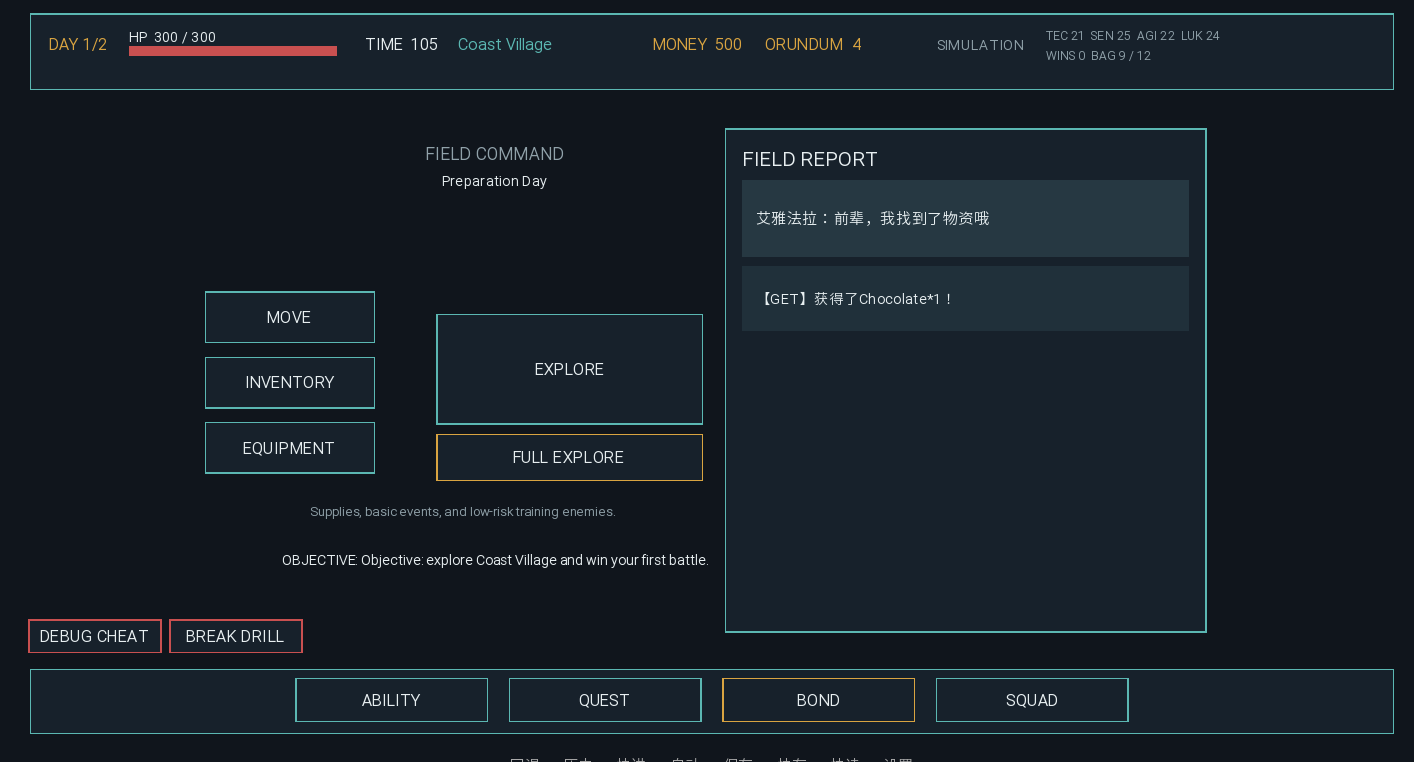
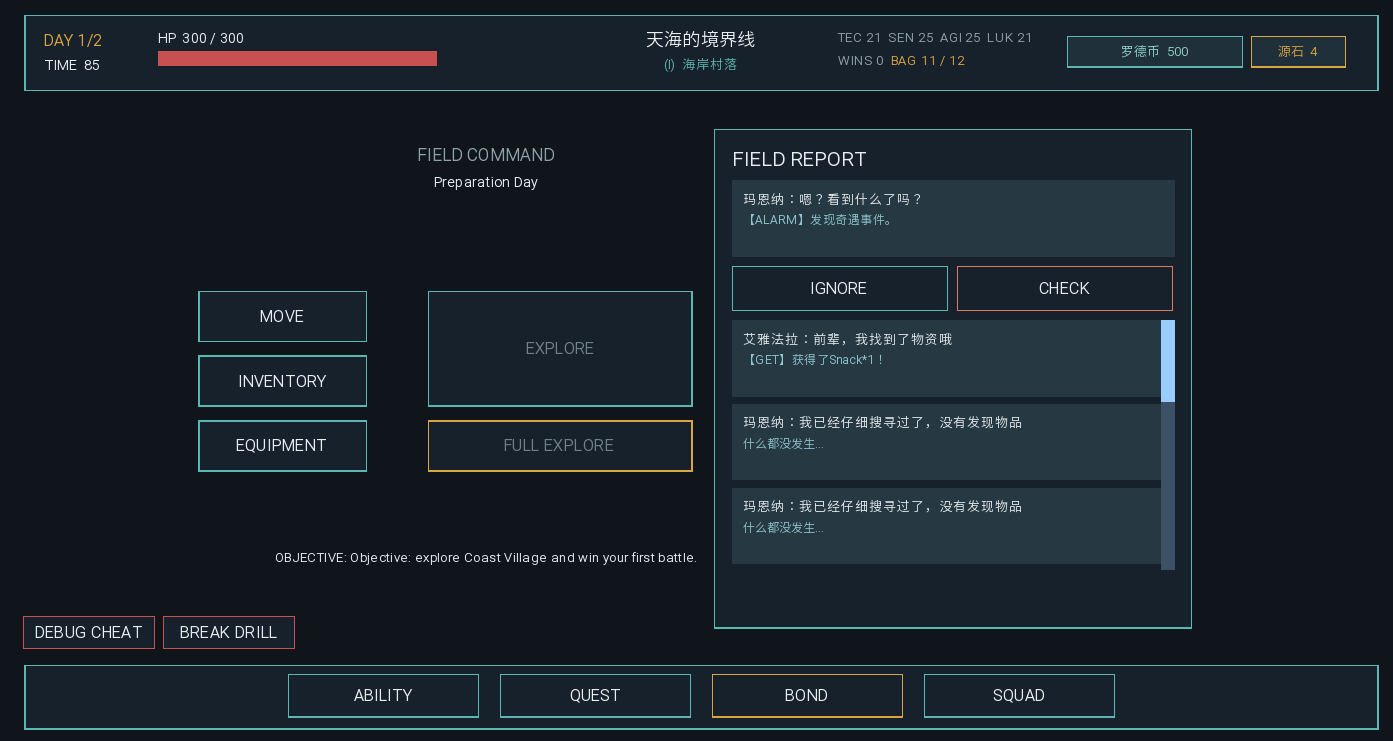
Update menu artwork and add image viewer

diff --git a/assets/site.css b/assets/site.css
@@ -36,10 +36,12 @@ img{max-width:100%}
 .hero{height:780px;position:relative;overflow:hidden;color:var(--navy);background:var(--cream)}
 .hero:before{content:"";position:absolute;inset:78px 0 0 0;background:linear-gradient(90deg,#0d4b9612 1px,transparent 1px),linear-gradient(#0d4b9612 1px,transparent 1px);background-size:54px 54px}
 .heroShade{position:absolute;z-index:0;inset:0;background:linear-gradient(90deg,var(--cream) 0%,var(--cream) 47%,#f4ecd9e8 58%,transparent 76%),linear-gradient(0deg,#083a7a21 0%,transparent 36%)}
-.heroVisual{position:absolute;z-index:1;right:2.8%;top:150px;width:min(43vw,680px);height:auto;aspect-ratio:1414/762;overflow:hidden;background:#020914;border:3px solid var(--navy);box-shadow:10px 10px 0 var(--sky);clip-path:polygon(7% 0,100% 0,100% 100%,0 100%)}
+.heroVisual{position:absolute;z-index:1;right:2.8%;top:150px;width:min(43vw,680px);height:auto;aspect-ratio:1393/741;overflow:hidden;background:#020914;border:3px solid var(--navy);box-shadow:10px 10px 0 var(--sky);clip-path:polygon(7% 0,100% 0,100% 100%,0 100%)}
 .heroFrame{position:absolute;inset:0;margin:0;display:grid;place-items:center;background:#020914}
 .heroFrame img{display:block;width:100%;height:100%;object-fit:contain}
 .heroFrame figcaption{position:absolute;left:30px;bottom:18px;padding:9px 12px;background:#083a7ae8;border-left:4px solid var(--sky);color:var(--cream-light);font:900 10px var(--mono);letter-spacing:.08em}
+.heroImageLink{position:absolute;right:18px;bottom:18px;padding:9px 12px;background:var(--cream-light);border:2px solid var(--navy);box-shadow:4px 4px 0 var(--sky);color:var(--navy);font:900 10px var(--mono);letter-spacing:.08em;text-decoration:none;transition:transform .18s,box-shadow .18s}
+.heroImageLink:hover,.heroImageLink:focus-visible{transform:translate(2px,2px);box-shadow:2px 2px 0 var(--sky)}
 .heroContent{position:relative;z-index:2;padding-top:128px}
 .heroLogo{display:block;width:min(390px,40vw);height:auto;margin:0 0 6px -24px}
 .hero h1,.pageHero h1,.portalHead h2,.intro h2,.roadmapHead h2,.logsLayout h2,.contactIntro h2{
@@ -250,6 +252,7 @@ footer small{text-align:right;color:#849eb8;font:9px var(--mono);line-height:1.7
   .lead{width:100%;max-width:580px;font-size:13px}
   .heroVisual{left:15px;right:15px;top:690px;width:auto;height:260px;clip-path:none;box-shadow:7px 7px 0 var(--sky)}
   .heroFrame figcaption{left:16px;bottom:14px}
+  .heroImageLink{right:14px;bottom:14px}
   .chapter{display:none}
   .portal{padding:72px 0}
   .portalHead,.intro,.logsLayout,.contactPage>.shell{grid-template-columns:1fr;gap:28px}

diff --git a/index.html b/index.html
@@ -18,7 +18,11 @@
     <section class="hero">
       <div class="heroShade"></div>
       <div class="heroVisual" aria-label="RIM 游戏界面原案">
-        <figure class="heroFrame"><img src="./assets/menu/menu-interface-concept.png" alt="RIM 游戏界面原案"><figcaption>游戏界面原案</figcaption></figure>
+        <figure class="heroFrame">
+          <img src="./assets/menu/menu-interface-concept.png?v=20260803-2" alt="RIM 游戏界面原案">
+          <figcaption>游戏界面原案</figcaption>
+          <a class="heroImageLink" href="./assets/menu/menu-interface-concept.png?v=20260803-2" target="_blank" rel="noopener">查看图片 ↗</a>
+        </figure>
       </div>
       <div class="shell heroContent">
         <img class="heroLogo" src="./assets/rim-logo-transparent.png" alt="RIM 罗德岛干员模拟战术演习标志">
